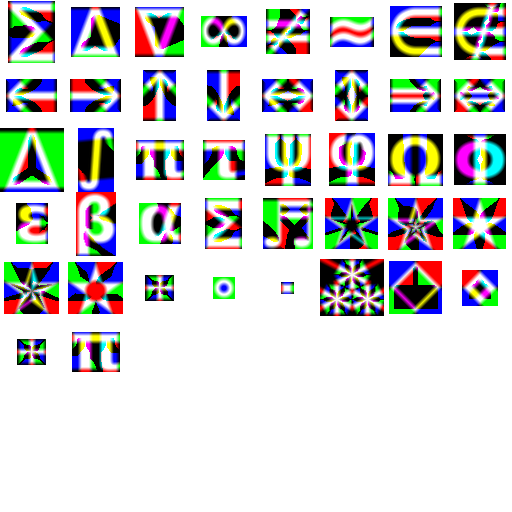
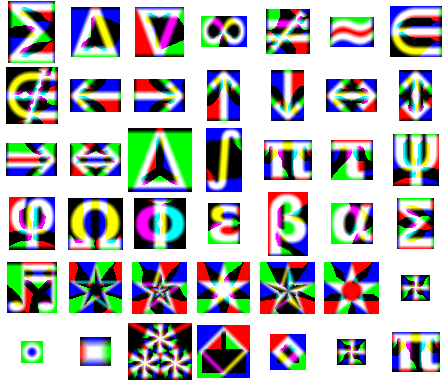
Fix MSDF atlas (7x6 grid, no empty cells), fix WGSL select() and GLSL cycleSpeed shadow
Agent-Logs-Url: https://github.com/ap0ught/matrix/sessions/924d02f8-81ab-4fef-97da-b62e110fa690

diff --git a/js/config.js b/js/config.js
@@ -184,17 +184,17 @@ const fonts = {
 		 * Mathematical symbols, Greek letters, set-theory notation, directional arrows,
 		 * stars, music notes, and more — the universal grammar of the Matrix's reality.
 		 *
-		 * Glyph order (8×8 grid, 42 active glyphs; remaining 22 cells are empty reserve):
-		 *   0:∑  1:∆  2:∇  3:∞  4:≠  5:≈  6:∈  7:∉
-		 *   8:←  9:→ 10:↑ 11:↓ 12:↔ 13:↕ 14:⇒ 15:⇔
-		 *  16:ඞ 17:∫ 18:π 19:τ 20:ψ 21:φ 22:Ω 23:Φ
-		 *  24:ε 25:β 26:α 27:Σ 28:♬ 29:☆ 30:✮ 31:★
-		 *  32:✯ 33:✫ 34:₊ 35:˚ 36:˙ 37:⁂ 38:◇ 39:⋄
-		 *  40:⁺ 41:𝝿
+		 * Glyph order (7×6 grid, 42 glyphs):
+		 *   0:∑  1:∆  2:∇  3:∞  4:≠  5:≈  6:∈
+		 *   7:∉  8:←  9:→ 10:↑ 11:↓ 12:↔ 13:↕
+		 *  14:⇒ 15:⇔ 16:ඞ 17:∫ 18:π 19:τ 20:ψ
+		 *  21:φ 22:Ω 23:Φ 24:ε 25:β 26:α 27:Σ
+		 *  28:♬ 29:☆ 30:✮ 31:★ 32:✯ 33:✫ 34:₊
+		 *  35:˚ 36:˙ 37:⁂ 38:◇ 39:⋄ 40:⁺ 41:𝝿
 		 */
 		glyphMSDFURL: "assets/mathcode_msdf.png",
 		glyphSequenceLength: 42,
-		glyphTextureGridSize: [8, 8],
+		glyphTextureGridSize: [7, 6],
 	},
 };
 
